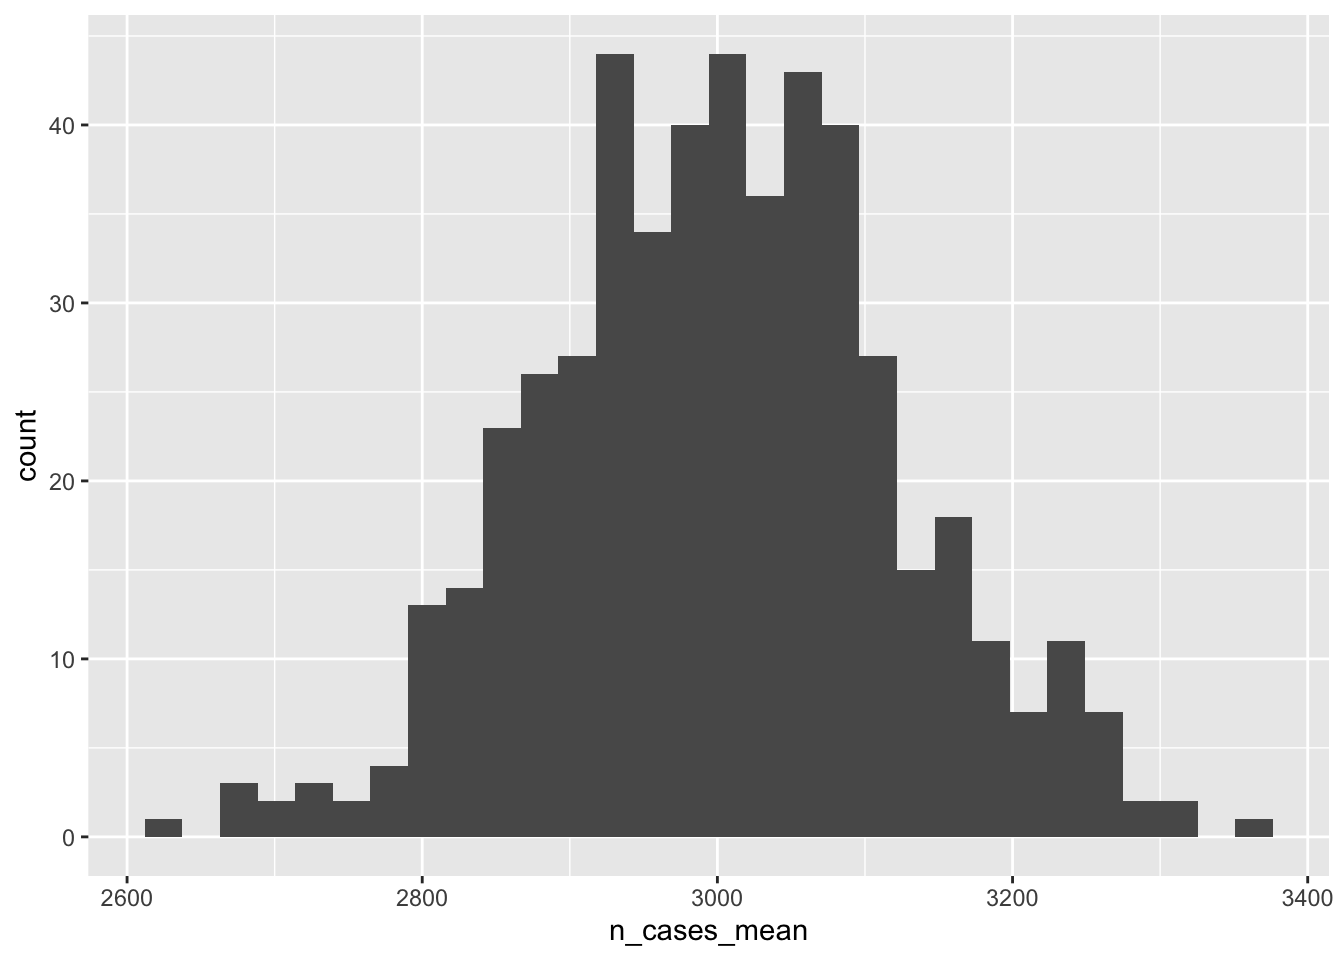
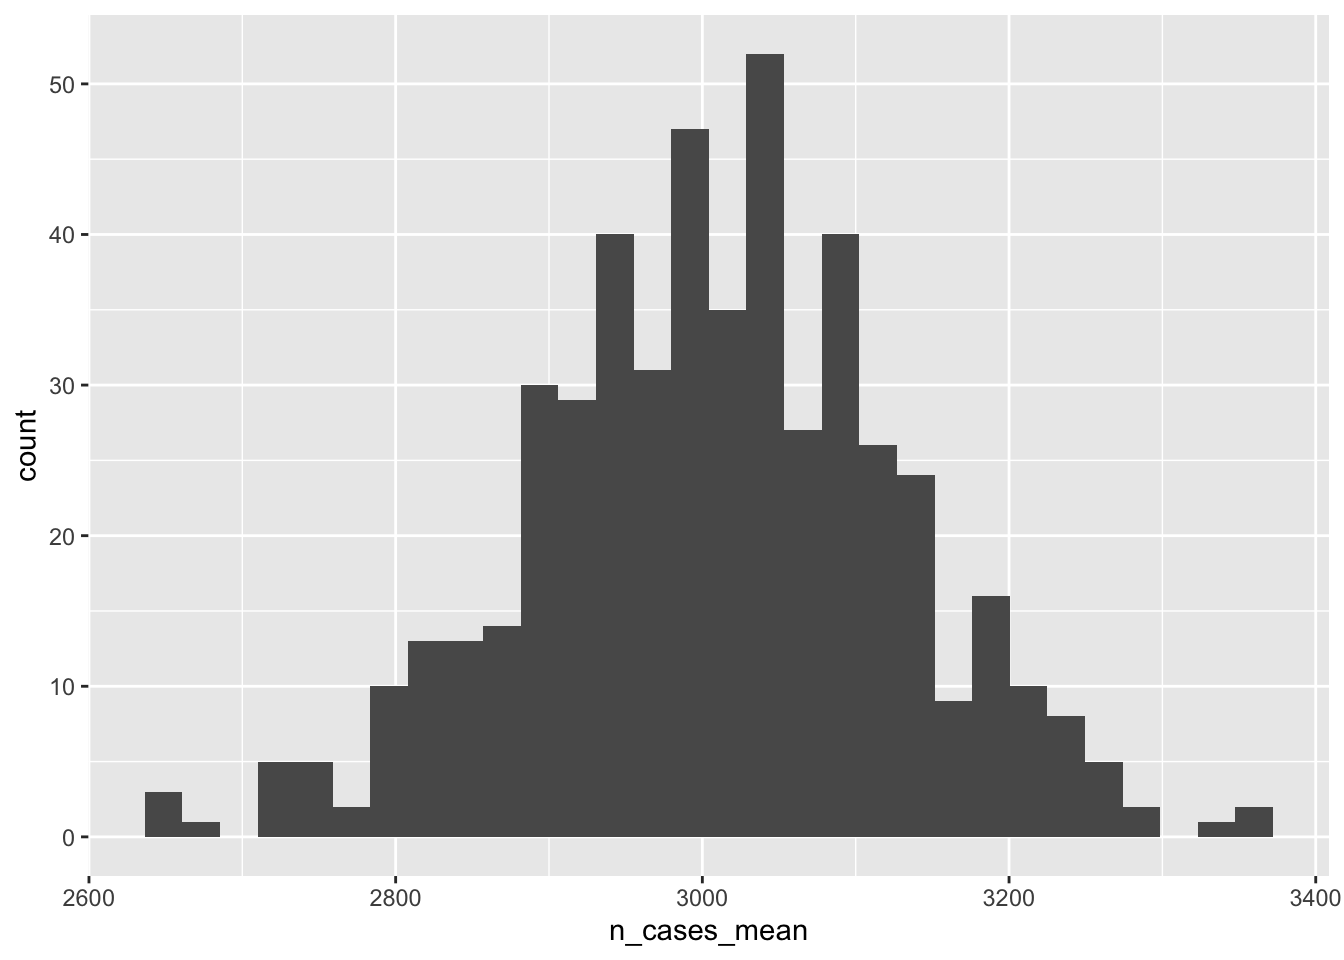
update monte-carlo-boot

diff --git a/docs/5-monte-carlo-boot-purrr.html b/docs/5-monte-carlo-boot-purrr.html
@@ -537,16 +537,16 @@ monte_carlo_sim_lots  = rep_id_val_list %&gt;%
 <pre><code>## # A tibble: 50,000 × 7
 ##    county_id state   pop   dem  prev n_cases rep_id
 ##        &lt;int&gt; &lt;dbl&gt; &lt;int&gt; &lt;int&gt; &lt;dbl&gt;   &lt;int&gt;  &lt;int&gt;
-##  1         1     1  9882     0 0.332    3280      1
-##  2         2     1  9933     0 0.179    1782      1
-##  3         3     1 10195     1 0.198    2021      1
-##  4         4     1 10030     1 0.475    4764      1
-##  5         5     1 10106     1 0.481    4865      1
-##  6         6     1 10145     1 0.263    2666      1
-##  7         7     1  9824     1 0.518    5086      1
-##  8         8     1  9971     0 0.252    2509      1
-##  9         9     1  9968     0 0.141    1408      1
-## 10        10     1  9985     1 0.181    1802      1
+##  1         1     1 10115     0 0.198    2004      1
+##  2         2     1 10101     1 0.508    5127      1
+##  3         3     1  9916     0 0.283    2803      1
+##  4         4     1 10140     1 0.294    2984      1
+##  5         5     1  9936     1 0.513    5093      1
+##  6         6     1  9844     0 0.105    1037      1
+##  7         7     1 10022     0 0.368    3690      1
+##  8         8     1  9882     1 0.175    1733      1
+##  9         9     1 10018     0 0.109    1095      1
+## 10        10     1 10035     0 0.308    3095      1
 ## # … with 49,990 more rows
 ## # ℹ Use `print(n = ...)` to see more rows</code></pre>
 <p>How many rows?</p>
@@ -590,37 +590,37 @@ monte_carlo_sim_lots  = rep_id_val_list %&gt;%
 <pre><code>## # A tibble: 1 × 5
 ##   state n_cases_mean_ll n_cases_mean_med n_cases_mean_ul simulation_type
 ##   &lt;dbl&gt;           &lt;dbl&gt;            &lt;dbl&gt;           &lt;dbl&gt; &lt;chr&gt;          
-## 1     1           2776.            2999.           3246. monte-carlo</code></pre>
+## 1     1           2755.            3011.           3239. monte-carlo</code></pre>
 </div>
 </div>
 <div id="bootstrap" class="section level2" number="4.2">
 <h2><span class="header-section-number">4.2</span> Bootstrap</h2>
 <p>Now let’s bootstrap <code>monte_carlo_sim_frozen</code>, again supposing that even though it was generated randomly, it is now viewed as a single frozen sample - the one we drew and have access to. We can estimate the sampling distribution by re-sampling it <strong>with replacement</strong> with sampling probability of 1, meaning all rows will be re-sampled. This means that, in a given sample, some counties will repeat, and some will not appear at all.</p>
-<p>Here’s one example:</p>
+<p>Here’s one sample:</p>
 <pre class="r"><code>monte_carlo_sim_one_boot = monte_carlo_sim_frozen %&gt;% 
   slice_sample(prop=1,replace=TRUE)</code></pre>
 <p>Take a look:</p>
 <pre class="r"><code>monte_carlo_sim_one_boot</code></pre>
 <pre><code>## # A tibble: 100 × 6
-##    county_id state   pop   dem   prev n_cases
-##        &lt;int&gt; &lt;dbl&gt; &lt;int&gt; &lt;int&gt;  &lt;dbl&gt;   &lt;int&gt;
-##  1        70     1  9897     1 0.345     3413
-##  2        43     1  9984     0 0.234     2336
-##  3        61     1  9910     1 0.520     5148
-##  4         9     1  9965     0 0.223     2219
-##  5        34     1  9924     1 0.440     4363
-##  6        20     1  9981     1 0.564     5626
-##  7         1     1  9940     1 0.492     4891
-##  8        17     1  9955     0 0.257     2553
-##  9        58     1 10015     0 0.0619     619
-## 10        10     1  9995     0 0.211     2111
+##    county_id state   pop   dem  prev n_cases
+##        &lt;int&gt; &lt;dbl&gt; &lt;int&gt; &lt;int&gt; &lt;dbl&gt;   &lt;int&gt;
+##  1        60     1 10036     0 0.237    2382
+##  2        59     1  9931     1 0.330    3275
+##  3        12     1  9955     0 0.198    1969
+##  4        11     1  9885     1 0.329    3251
+##  5        82     1 10146     1 0.308    3120
+##  6         1     1  9940     1 0.492    4891
+##  7        97     1 10028     1 0.456    4568
+##  8        35     1  9781     0 0.313    3057
+##  9        99     1  9864     0 0.232    2285
+## 10        80     1  9987     1 0.452    4513
 ## # … with 90 more rows
 ## # ℹ Use `print(n = ...)` to see more rows</code></pre>
 <p>As expected, we have the same number of rows, but fewer unique values for <code>county_id.</code> Some are repeating.</p>
 <pre class="r"><code>nrow(monte_carlo_sim_one_boot)</code></pre>
 <pre><code>## [1] 100</code></pre>
 <pre class="r"><code>n_distinct(monte_carlo_sim_one_boot$county_id)</code></pre>
-<pre><code>## [1] 65</code></pre>
+<pre><code>## [1] 67</code></pre>
 <p>Repeat this bootstrap procedure 500 times by first writing a function and then iterating replications through that function using <code>purrr::map_dfr()</code></p>
 <div id="define-a-function-for-replications-1" class="section level3" number="4.2.1">
 <h3><span class="header-section-number">4.2.1</span> Define a function for replications</h3>
@@ -640,18 +640,18 @@ monte_carlo_sim_lots  = rep_id_val_list %&gt;%
 <h3><span class="header-section-number">4.2.3</span> Summarize results</h3>
 <pre class="r"><code>boot_lots</code></pre>
 <pre><code>## # A tibble: 50,000 × 7
-##    county_id state   pop   dem  prev n_cases rep_id
-##        &lt;int&gt; &lt;dbl&gt; &lt;int&gt; &lt;int&gt; &lt;dbl&gt;   &lt;int&gt;  &lt;int&gt;
-##  1        48     1  9804     0 0.157    1539      1
-##  2        40     1  9936     0 0.172    1707      1
-##  3        68     1 10085     0 0.396    3996      1
-##  4        91     1  9947     1 0.377    3752      1
-##  5        97     1 10028     1 0.456    4568      1
-##  6        53     1 10075     1 0.273    2750      1
-##  7        64     1  9909     0 0.343    3403      1
-##  8        97     1 10028     1 0.456    4568      1
-##  9         3     1  9863     1 0.492    4849      1
-## 10       100     1 10128     1 0.222    2252      1
+##    county_id state   pop   dem   prev n_cases rep_id
+##        &lt;int&gt; &lt;dbl&gt; &lt;int&gt; &lt;int&gt;  &lt;dbl&gt;   &lt;int&gt;  &lt;int&gt;
+##  1        83     1 10022     1 0.330     3312      1
+##  2        40     1  9936     0 0.172     1707      1
+##  3        44     1  9948     0 0.263     2612      1
+##  4         1     1  9940     1 0.492     4891      1
+##  5        96     1  9936     0 0.513     5096      1
+##  6        30     1  9922     1 0.303     3010      1
+##  7        58     1 10015     0 0.0619     619      1
+##  8         1     1  9940     1 0.492     4891      1
+##  9        29     1  9938     1 0.350     3476      1
+## 10        50     1 10047     1 0.354     3557      1
 ## # … with 49,990 more rows
 ## # ℹ Use `print(n = ...)` to see more rows</code></pre>
 <p>What’s the distribution of <code>n_cases_mean</code> over bootstrap replications?</p>
@@ -686,15 +686,15 @@ monte_carlo_sim_lots  = rep_id_val_list %&gt;%
 <pre><code>## # A tibble: 1 × 5
 ##   state n_cases_mean_ll n_cases_mean_med n_cases_mean_ul simulation_type
 ##   &lt;dbl&gt;           &lt;dbl&gt;            &lt;dbl&gt;           &lt;dbl&gt; &lt;chr&gt;          
-## 1     1           2810.            3061.           3310. bootstrap</code></pre>
+## 1     1           2823.            3068.           3294. bootstrap</code></pre>
 <p>How does this estimate of the sampling distribution of <code>n_cases_mean</code> align with the truth? We happen to know the truth here. It’s the distribution of <code>n_cases_mean</code> between the Monte Carlo simulations, defined above.</p>
 <pre class="r"><code>monte_carlo_sim_lots_summary %&gt;% 
   bind_rows(boot_lots_summary)</code></pre>
 <pre><code>## # A tibble: 2 × 5
 ##   state n_cases_mean_ll n_cases_mean_med n_cases_mean_ul simulation_type
 ##   &lt;dbl&gt;           &lt;dbl&gt;            &lt;dbl&gt;           &lt;dbl&gt; &lt;chr&gt;          
-## 1     1           2776.            2999.           3246. monte-carlo    
-## 2     1           2810.            3061.           3310. bootstrap</code></pre>
+## 1     1           2755.            3011.           3239. monte-carlo    
+## 2     1           2823.            3068.           3294. bootstrap</code></pre>
 </div>
 </div>
 </div>
@@ -719,7 +719,7 @@ monte_carlo_sim_lots  = rep_id_val_list %&gt;%
 </div>
 <div id="more-on-functions" class="section level1" number="6">
 <h1><span class="header-section-number">6</span> More on functions</h1>
-<p>In addition to their use for simulations as above, functions can also be used simply to reduce repetition in code. Sometimes you end up writing the same or similar code many times and apply that code to several datasets. Here is a set of dplyr steps combined into one function.</p>
+<p>In addition to their use for simulations as above, functions can also be used simply to reduce repetition in code. Sometimes you end up writing the same or similar code many times and apply that code to several datasets. For example, above we wrote basically the same sequence of dplyr functions to define <code>monte_carlo_sim_frozen</code> as we did to define the function, <code>monte_carlo_sim_fun()</code>. Here is a set of dplyr steps combined into one function.</p>
 <pre class="r"><code>do_some_dplyr_stuff = function(df){ 
   df %&gt;%
   mutate(
@@ -739,7 +739,7 @@ function_result_one_county</code></pre>
 <pre><code>## # A tibble: 1 × 5
 ##   state county_id example_var_x example_var_y example_var_z
 ##   &lt;dbl&gt;     &lt;int&gt;         &lt;dbl&gt;         &lt;dbl&gt;         &lt;int&gt;
-## 1     1         2         -1.57             4             0</code></pre>
+## 1     1         2        -0.635             4             0</code></pre>
 </div>
 <div id="references" class="section level1 unnumbered">
 <h1><strong>References</strong></h1>
